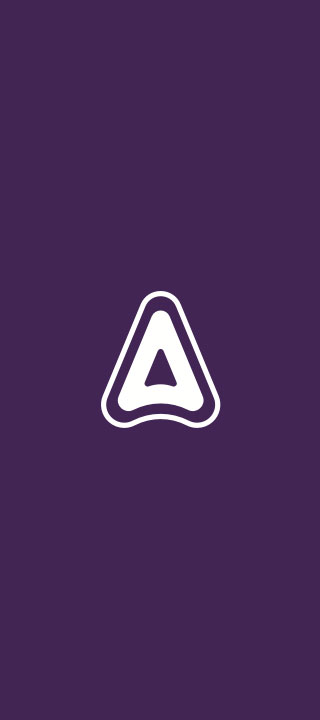
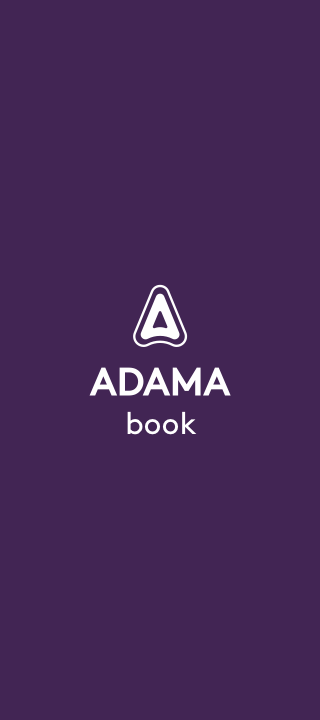
updating adama hf & book and pedemeia

Changed region(s): [[0.2812, 0.3972, 0.7188, 0.6111]]

diff --git a/_sass/components/_home.scss b/_sass/components/_home.scss
@@ -37,7 +37,7 @@
     .card_labels {
       position: absolute;
       bottom: 2rem;
-      left: 0rem;
+      margin-left: 0rem;
       opacity: 0;
       @include trans500;
     }
@@ -46,7 +46,7 @@
       @include fs--title;
       font-weight: 600;
       // text-shadow: 0 0.2rem 0 rgba(255,249,237,0.4);
-      width: 70%;
+      width: 72%;
       position: relative;
       font-size: 3rem;
       color: black;
@@ -116,7 +116,11 @@ $about_top_trans: -7.8rem;
     }
 
     &:hover .card_inner .card_labels {
-      left: -1rem;
+      -webkit-transform: translate(-1rem, 0);
+    	-moz-transform: translate(-1rem, 0);
+    	-ms-transform: translate(-1rem, 0);
+    	-o-transform: translate(-1rem, 0);
+    	transform: translate(-1rem, 0);
       opacity: 1;
     }
   }

diff --git a/_sass/components/_project.scss b/_sass/components/_project.scss
@@ -60,7 +60,7 @@
 
 .project_info {
   float: left;
-  width: 25%;
+  width: 28rem;
   padding-right: 5%;
   font-family: 'Rubik', 'Helvetica Neue', Helvetica, sans-serif;
   font-weight: 500;
@@ -81,6 +81,7 @@
     font-family: 'Rubik', 'Work Sans', 'Helvetica Neue', Helvetica, sans-serif;
     font-weight: 600;
     margin-top: 4.8rem;
+    margin-bottom: 0.8rem;
   }
 
   h5 {
@@ -95,9 +96,10 @@
   }
 
   figure {
-    margin-top: 1.6rem;
     margin-bottom: 2.4rem;
     overflow: visible;
+
+    & .left-align { margin-left: -30rem }
 
     img { width: 100%; }
 
@@ -106,7 +108,7 @@
     .img_small { max-width: 64rem; }
   }
 
-  .left-align { margin-left: -30rem }
+  ul { margin-bottom: 1.6rem; }
 
   a {
     font-weight: 600;

diff --git a/_pages/adama_book.md b/_pages/adama_book.md
@@ -9,10 +9,27 @@ permalink: adama_book
 weight: 2
 priority: 55
 color: '#422554'
+
+logo: 'book_logo.png'
 ---
 
-O Adama Book é um sistema Web e mobile de disponibilização de material para os agentes de campo da empresa, possibilitando que tenham acesso imediato a toda informação de produtos e processos necessários ao desempenho de suas tarefas sem a necessidade de consulta em enciclopédias e volumosos materiais impressos.
+O Adama Book é um sistema para disponibilizar o material para os agentes de campo da empresa. Ele possibilita a consulta digital de toda informação dos produtos de forma fácil, uma vez que no processo anterior era necessário carregar enciclopédias impressas volumosas de cada produto.
+
+<figure><img src="{{ site.baseurl }}/assets/adama_book/book_mockup.jpg"/></figure>
+
+O sistema possui uma interface de administração onde é possível adicionar arquivos responsivos, que funcionam tanto na web quanto nos aplicativos mobile. O fluxo e arquitetura da informação dessa ferramenta de gerência foi pensada em conjunto com os desenvolvedores baseado no uso real dos agentes da empresa e da equipe que alimenta o conteúdo.
+
+<figure><img src="{{ site.baseurl }}/assets/adama_book/telas_admin.png"/></figure>
 
 <figure><img src="{{ site.baseurl }}/assets/adama_book/fluxo.png"/></figure>
 
+Para visualizar as informações dos produtos existem três caminhos, é possível filtrar por produto, por segmento de produto ou por cultura. Outra possibiidade para encontrar o desejado é buscar por palavra-chave.
+
 <figure><img class="img_small" src="{{ site.baseurl }}/assets/adama_book/adamabook.png"/></figure>
+
+Os arquivos são organizados por capítulos dentro de cada cultura cadastrada. No aplicativo, a navegação dos capítulos se dá pelo Índice, uma tela que lista cada item.
+
+<figure><img class="img_small" src="{{ site.baseurl }}/assets/adama_book/culturas.png"/></figure>
+##### ícones desenvolvidos para os aplicativos Adama Hortifruti e Adama Book
+
+App na [Google Play](https://play.google.com/store/apps/details?id=br.com.adama.adamabook)

diff --git a/_pages/ralador_de_queijo.md b/_pages/ralador_de_queijo.md
@@ -1,8 +1,7 @@
 ---
 layout: page
 title:  "ralador de queijo"
-categories:
-  - item: produto
+
 permalink: ralador_de_queijo
 
 weight: 1
@@ -20,6 +19,20 @@ details:
 
 Na disciplina de Materiais e Processos de Produção 2 do curso de Design da Fauusp foram feitos estudos para analisar o comportamento de metais em geral em relação às deformações físicas. O projeto resultou no desenvolvimento de um utensílio de cozinha.
 
+<figure><img class="img_small" src="{{ site.baseurl }}/assets/ralador_de_queijo/queijim.jpg"/></figure>
+
 O processo de escolha do produto pelo grupo foi feito através de uma técnica de Brainstorm no qual uma palavra-chave era escolhida e, em seguida, os membros tinham um minuto para escreverem outras palavras que viessem à mente em decorrência da palavra-chave.
 
-Em seguida foi feita uma pesquisa, no qual, o foco era encontrar soluções de cabos e pegadores que apresentassem conforto para o usuário e uma forma estética orgânica ou curvilínea. Uma produção de partidos foi realizada a partir de desenhos de estudo.
+Com o projeto conceitual finalizado, a fase de construção do modelo foi iniciada. Vários estudos foram feitos em diversas placas metálicas, a fim de se chegar num material com espessura adequada às restrições da forma do objeto.
+
+<figure><img class="img_small" src="{{ site.baseurl }}/assets/ralador_de_queijo/step1.jpg"/></figure>
+
+<figure><img class="img_small" src="{{ site.baseurl }}/assets/ralador_de_queijo/step2.jpg"/></figure>
+
+<figure><img class="img_small" src="{{ site.baseurl }}/assets/ralador_de_queijo/step3.jpg"/></figure>
+
+<figure><img class="img_small" src="{{ site.baseurl }}/assets/ralador_de_queijo/step4.jpg"/></figure>
+
+O processo passou por diversas etapas no laboratório de ensaios, inclusive fazer um molde para dar forma à pega do utensílio. Após o polimento chegou-se a um resultado satisfatório.
+
+<figure><img class="img_small" src="{{ site.baseurl }}/assets/ralador_de_queijo/ralador_bg_preto.jpg"/></figure>

diff --git a/_pages/pe_de_meia.md b/_pages/pe_de_meia.md
@@ -45,11 +45,7 @@ O processo de desenvolvimento foi feito através de pesquisa do comportamento fi
 
 Por fim, uma geração de opções gráficas foi realizada e através de refinamentos guiados pela experiência que o usuário teria fosse possível chegar em um resultado final bem intuitivo. A idéia era manter uma linguagem lúdica e bem amigável.
 
-<figure><img class="img_small img_original" src="{{ site.baseurl }}/assets/pe_de_meia/pedemeia_tela(3).jpg"/><img class="img_small img_original" src="{{ site.baseurl }}/assets/pe_de_meia/pedemeia_tela(4).jpg"/></figure>
-
-<figure><img class="img_small img_original" src="{{ site.baseurl }}/assets/pe_de_meia/pedemeia_tela(7).jpg"/><img class="img_small img_original" src="{{ site.baseurl }}/assets/pe_de_meia/pedemeia_tela(2).jpg"/></figure>
-
-<figure><img class="img_small img_original" src="{{ site.baseurl }}/assets/pe_de_meia/pedemeia_tela(5).jpg"/><img class="img_small img_original" src="{{ site.baseurl }}/assets/pe_de_meia/pedemeia_tela(6).jpg"/></figure>
+<figure><img class="img_small img_original" src="{{ site.baseurl }}/assets/pe_de_meia/telas.jpg"/></figure>
 
 <iframe src="https://player.vimeo.com/video/62218485?byline=0&portrait=0" width="640" height="360" frameborder="0" webkitallowfullscreen mozallowfullscreen allowfullscreen></iframe>
 ##### Vídeo desenvolvido para entrega final da disciplina

diff --git a/_pages/adama_hortifruti.md b/_pages/adama_hortifruti.md
@@ -17,8 +17,6 @@ O aplicativo Adama HF permite que os agricultores registrem todas as operações
 
 <figure><img class="img_small" src="{{ site.baseurl }}/assets/adama_hf/func.png"/></figure>
 
-<figure><img class="img_small" src="{{ site.baseurl }}/assets/adama_hf/proj_hortifruti.png"/></figure>
-
 ### principais recursos
 
 - Registro de operações feitas nas culturas de hortifruti
@@ -33,6 +31,9 @@ O aplicativo Adama HF permite que os agricultores registrem todas as operações
 
 - Indicação do produto adequado para cada espécie
 
-<br>
+<figure><img class="img_small" src="{{ site.baseurl }}/assets/adama_hf/proj_hortifruti.png"/></figure>
+
+<figure><img class="img_small" src="{{ site.baseurl }}/assets/adama_book/culturas.png"/></figure>
+##### ícones desenvolvidos para os aplicativos Adama Hortifruti e Adama Book
 
 Apps na [Google Play](https://play.google.com/store/apps/details?id=br.com.livetouch.adamahortifruti) e na [App Store](https://itunes.apple.com/br/app/adama-hf/id1171143876?mt=8)
